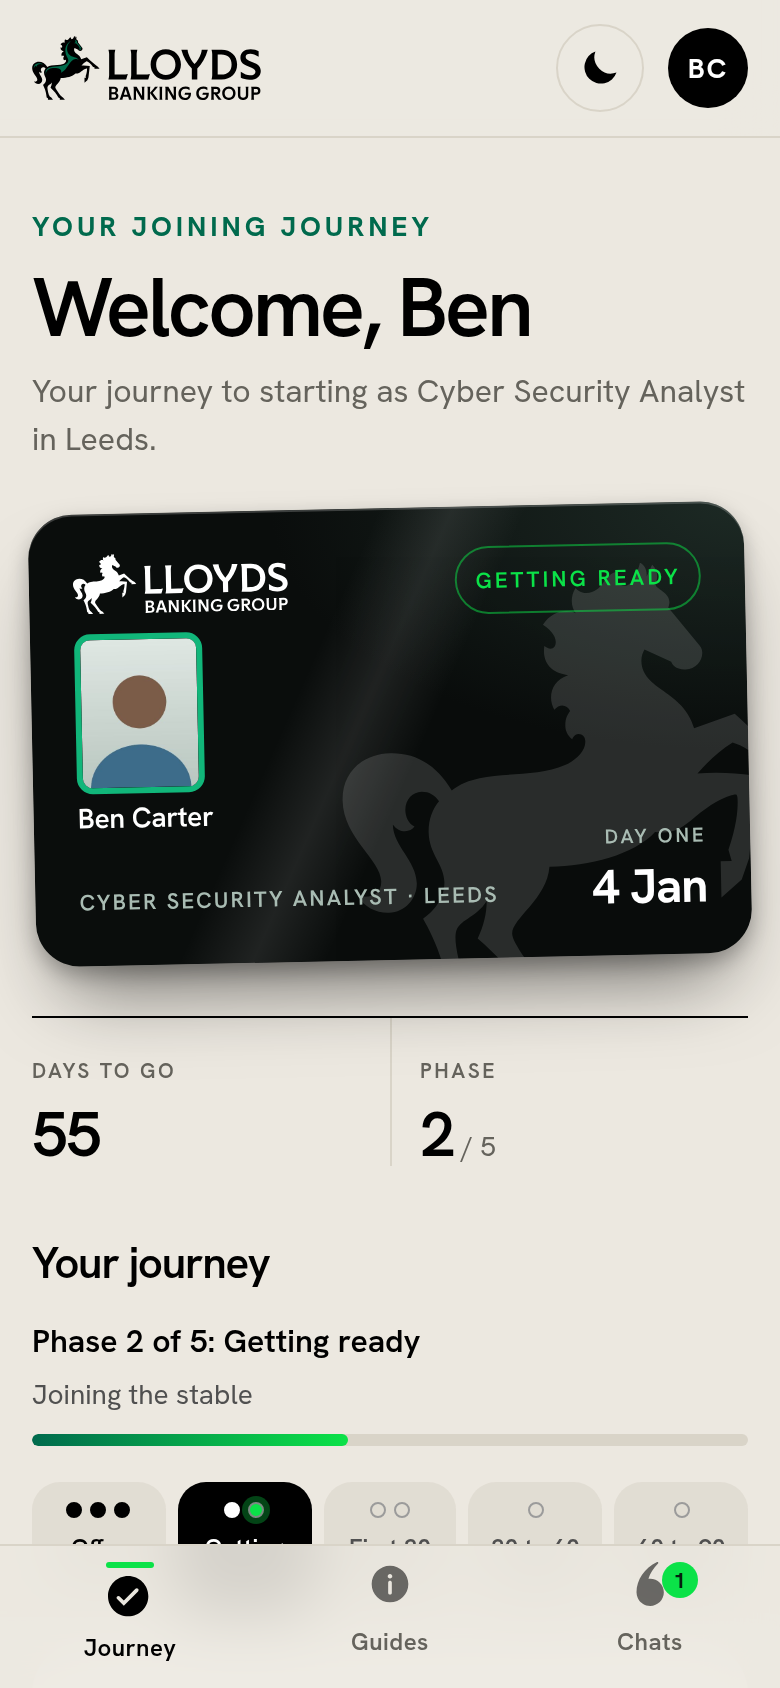
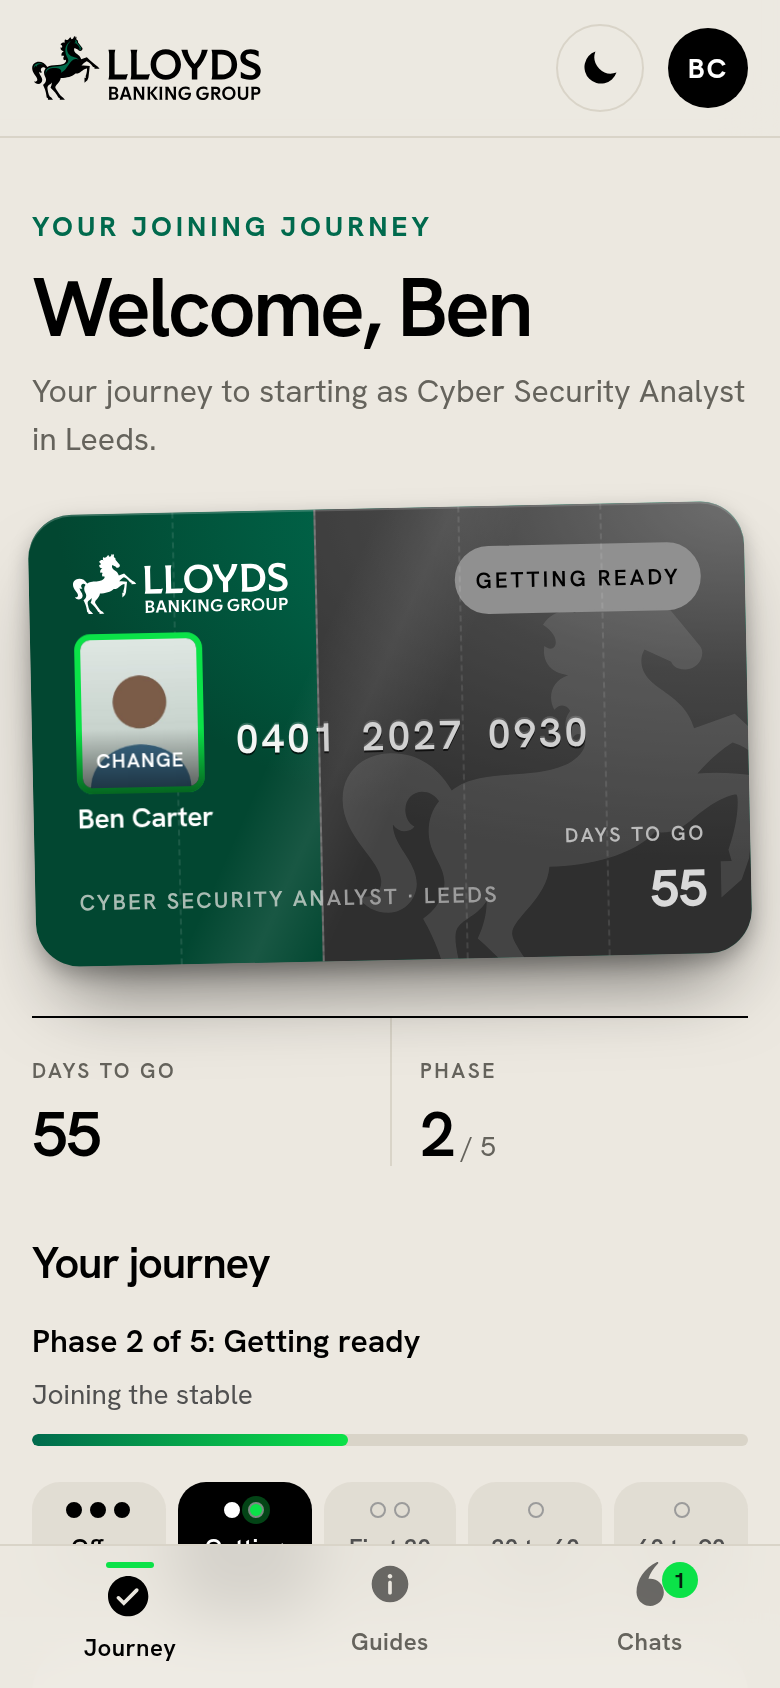
Pitch deck: recapture the pass card, welcome screen and home screen (#28)
The pass card now fills in by phase, with the start date as its card number,
and the welcome screen shows the Epic Journey film. Pass photo can be retaken.

Changed region(s): [[0.0308, 0.2773, 0.9846, 0.5853]]

diff --git a/docs/pitch-deck/index.html b/docs/pitch-deck/index.html
@@ -270,7 +270,7 @@ h2 { font-size: 72px; }
 
 <!-- 5. BEN ARRIVES -->
 <section class="slide stone" data-phase="1"
-  data-t="0:30" data-notes="Ben gets an email. In production that's an email service, here it's a demo mailbox page, and we say so. The link works once and expires; we only store a hash of it. He sets a password, and lands on his welcome screen with his pass card: phase 1 of 5, Offer, with the line 'Saddling up' and a tip.">
+  data-t="0:30" data-notes="Ben gets an email. In production that's an email service, here it's a demo mailbox page, and we say so. The link works once and expires; we only store a hash of it. He sets a password, and lands on his welcome screen with his pass card: phase 1 of 5, Offer, with the line 'Saddling up', a tip and the one-minute Epic Journey film. The pass card fills in as he moves through the phases, with his start date as the card number.">
   <img class="chrome-logo r" src="assets/lbg-logo.svg" alt="">
   <div class="actors r" style="--d:.3s"><div class="actor ben"><i>BC</i><span>Ben Carter<small>Recruit</small></span></div></div>
   <div class="head"><div class="eyebrow r">Phase 1 · Offer</div><h2 class="r" style="--d:.1s">Ben gets an email, then a pass.</h2></div>
@@ -281,7 +281,7 @@ h2 { font-size: 72px; }
   <div class="cap r" style="left:1030px; top:955px; --w:300px; --d:1.3s; font-size:22px"><b>One-time link</b></div>
   <div class="arrow" style="left:1370px; top:600px; width:90px; --d:1.45s"><svg viewBox="0 0 120 24"><path d="M4 12 H112 M98 2 L112 12 L98 22"/></svg></div>
   <div class="phone r pop" style="left:1500px; top:290px; --w:300px; --d:1.5s"><img src="assets/shots/07-ben-welcome.png" alt="Welcome screen with pass card"></div>
-  <div class="cap r" style="left:1500px; top:955px; --w:300px; --d:1.7s; font-size:22px"><b>His pass card</b></div>
+  <div class="cap r" style="left:1500px; top:955px; --w:300px; --d:1.7s; font-size:22px"><b>Pass card and film</b></div>
 </section>
 
 <!-- 6. OFFER + SCREENING -->
@@ -326,7 +326,7 @@ h2 { font-size: 72px; }
   <div class="cap r" style="left:440px; top:955px; --w:300px; --d:1.3s; font-size:22px"><b>Add a pass photo</b></div>
   <ul class="points" style="left:850px; top:300px; width:980px; gap:30px">
     <li class="r" style="--d:1s">Recommended for his role<small>HP EliteBook for a Cyber Security Analyst. He can change it until a week before he starts.</small></li>
-    <li class="r" style="--d:1.5s">A selfie for his building pass<small>Reception prints it ahead of Day 1, and it shows on his pass card.</small></li>
+    <li class="r" style="--d:1.5s">A selfie for his building pass<small>Reception prints it ahead of Day 1, and it shows on his pass card. He can retake it later.</small></li>
   </ul>
   <div class="win r pop" style="left:850px; top:700px; --w:960px; --d:2.1s"><div class="bar"><b></b><b></b><b></b><em>Sam’s Day 1 checklist</em></div><div class="crop" style="height:230px"><img src="assets/shots/36-sam-checklist-ben.png" style="left:-670px; top:-212px; width:1630px" alt="Sam's checklist showing Ben chose the HP EliteBook"></div></div>
   <div class="tag lime r pop" style="left:1380px; top:652px; --d:2.6s">…and it flows to Sam</div>
